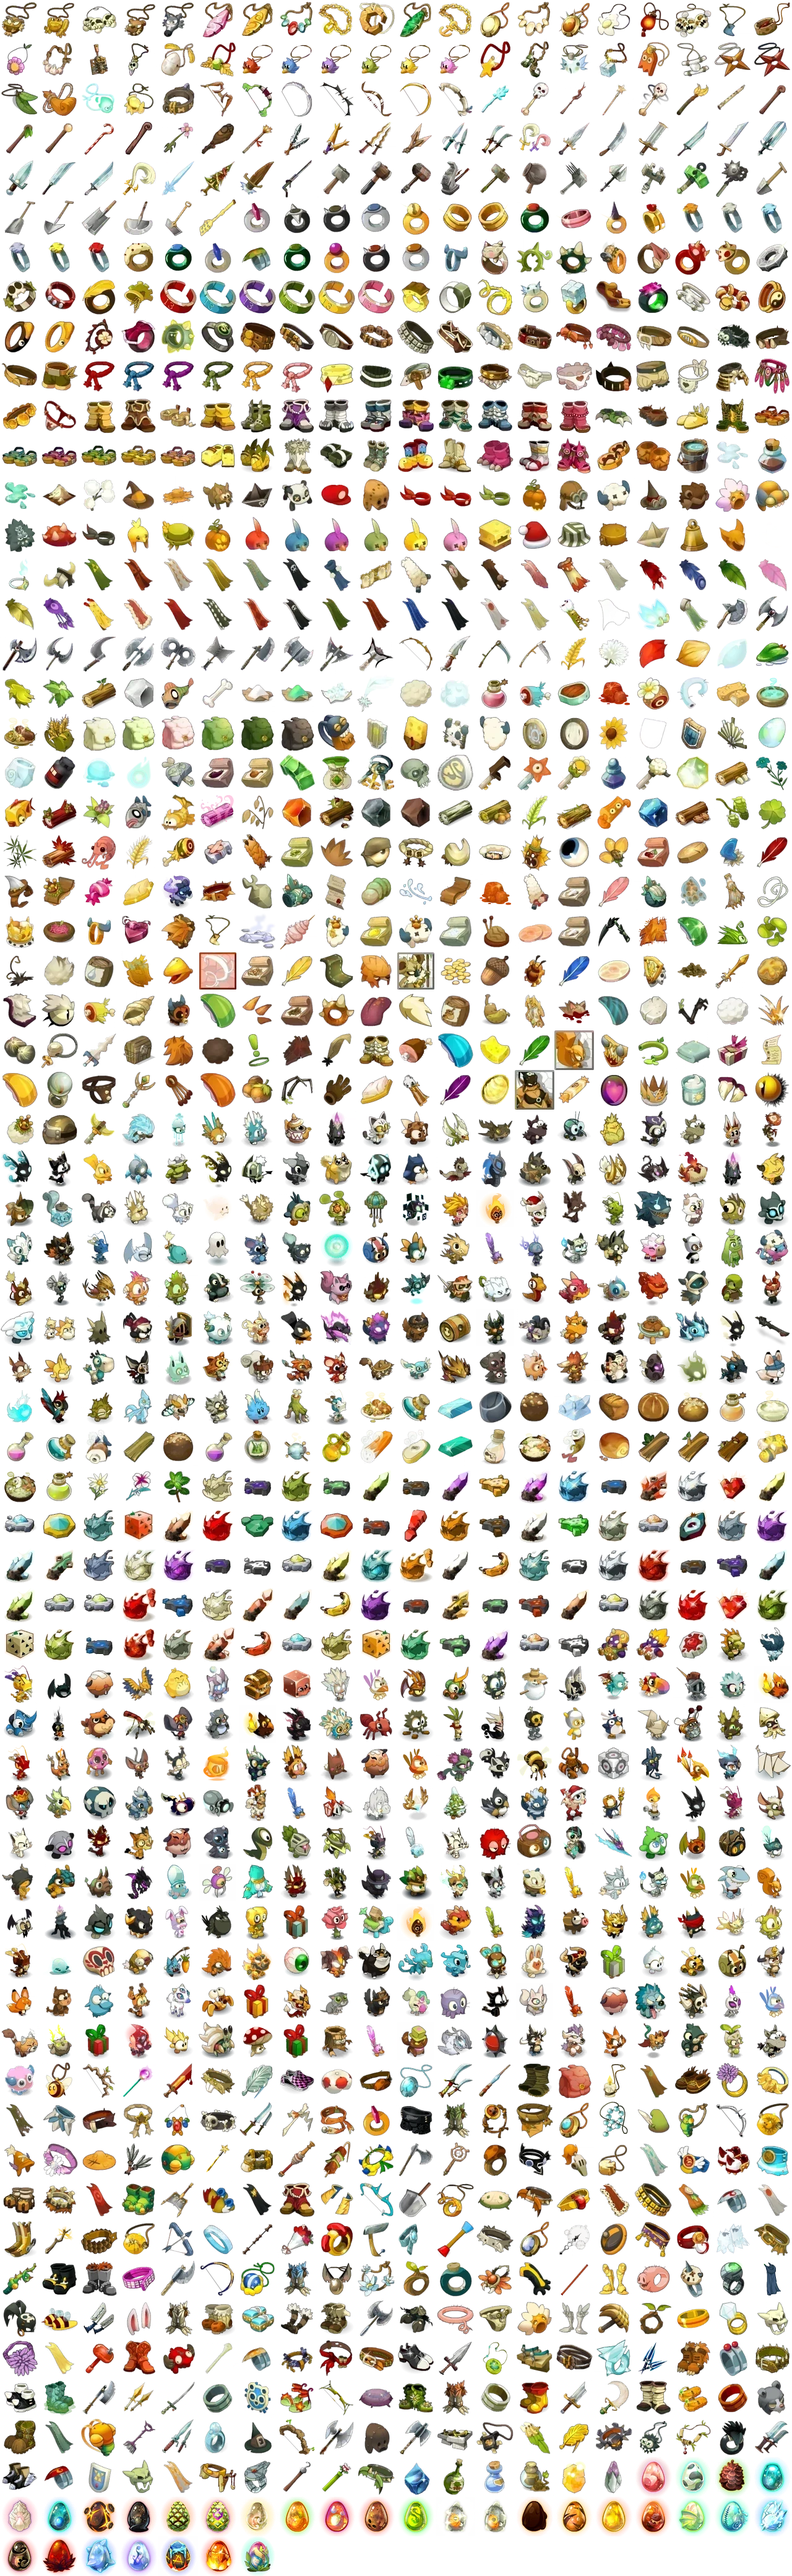
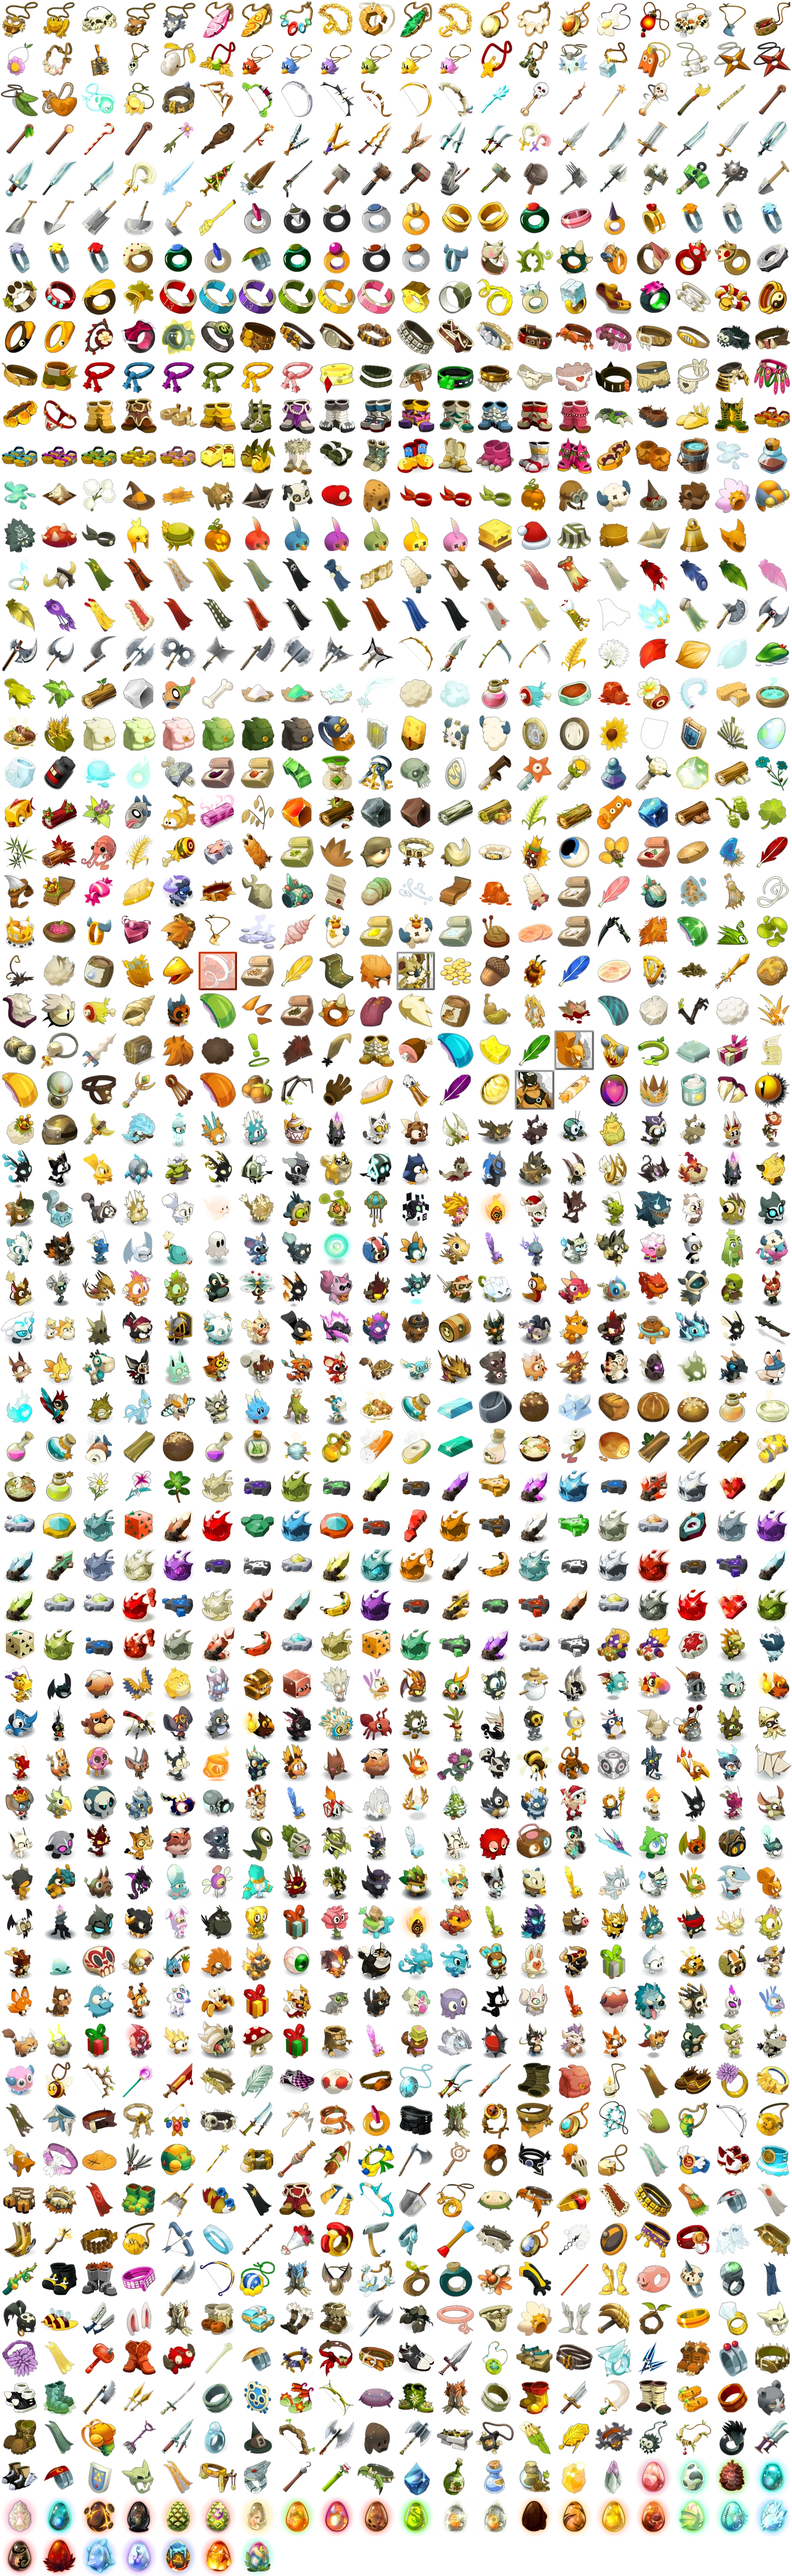
Icônes d'objets en 128 px officielles (paquet 2x) dans les fenêtres
Les fenêtres affichaient les icônes 64 px du paquet item_assets_1x, agrandies
(échelle d'interface, écrans à 125-150 %) et réencodées à chaque ajout.
Nouvelle planche objets-hd.webp (128 px) pour le HTML ; objets.webp (64 px,
Phaser) est maintenant réduite depuis la même source. icones_ajout.py refait
toujours les deux planches depuis le paquet 2x.

Claude-Session: https://claude.ai/code/session_01HSZqX7VPHyBYAxorosXfjm

diff --git a/src/render/icons.ts b/src/render/icons.ts
@@ -1,7 +1,8 @@
 import sheet from '../data/icones_objets.json';
 
-/** Planche unique des icônes d'objets (tools/extraction/items_export.py) : une case de 64 px par iconId. */
-export const ICON_SHEET = { key: 'objets', url: 'ui/objets.webp', cell: sheet.cell };
+/** Planches des icônes d'objets (tools/extraction/icones_ajout.py, paquet item_assets_2x de Dofus 3), mêmes cases :
+ *  objets.webp (64 px) pour Phaser, objets-hd.webp (128 px) pour les fenêtres, nettes à toutes les tailles et échelles d'interface. */
+export const ICON_SHEET = { key: 'objets', url: 'ui/objets.webp', cell: sheet.cell, hd: 'ui/objets-hd.webp' };
 const ICONS = sheet.icons as Record<string, number>;
 
 /** Numéro de la case d'une icône (pour Phaser), -1 si absente. */
@@ -14,4 +15,4 @@ export function iconHtml(icon: number) {
   const x = (n % sheet.cols) / (sheet.cols - 1) * 100, y = Math.floor(n / sheet.cols) / (sheet.rows - 1) * 100;
   return `<i class="ic" style="background-position:${x.toFixed(3)}% ${y.toFixed(3)}%"></i>`;
 }
-export const ICON_CSS = `.ic{display:block;background:url(assets/${ICON_SHEET.url}) no-repeat;background-size:${sheet.cols * 100}% ${sheet.rows * 100}%}`;
+export const ICON_CSS = `.ic{display:block;background:url(assets/${ICON_SHEET.hd}) no-repeat;background-size:${sheet.cols * 100}% ${sheet.rows * 100}%}`;

diff --git a/tools/extraction/icones_ajout.py b/tools/extraction/icones_ajout.py
@@ -1,8 +1,13 @@
-"""Ajoute des icônes officielles d'objets à la planche du jeu (public/assets/ui/objets.webp + src/data/icones_objets.json).
+"""Ajoute des icônes officielles d'objets aux planches du jeu (src/data/icones_objets.json) :
+  - public/assets/ui/objets-hd.webp : cases de 128 px, pour les fenêtres (HTML, nettes même avec l'échelle d'interface ou un écran à 125-150 %) ;
+  - public/assets/ui/objets.webp    : cases de 64 px (la même planche réduite), pour Phaser (icônes au sol, récoltes, PNJ).
 
-Usage : python icones_ajout.py <item_assets_1x.bundle> <iconId> [iconId ...]
-La planche grandit d'une rangée quand elle est pleine (20 icônes de 64 px par rangée). Les icônes déjà présentes sont ignorées.
-Le paquet est dans Dofus_Data/StreamingAssets/Content/Picto/Items (copie dans cache-dofus/astrub/).
+Usage : python icones_ajout.py <item_assets_2x.bundle> <iconId> [iconId ...]
+        python icones_ajout.py <item_assets_2x.bundle>            refait seulement les deux planches (même ordre des cases)
+La planche grandit d'une rangée quand elle est pleine (20 icônes par rangée). Les icônes déjà présentes sont ignorées.
+Le paquet est dans Dofus_Data/StreamingAssets/Content/Picto/Items (copie dans cache-dofus/astrub/item_assets_2x.bundle) ;
+ses icônes font 128 px (celles d'item_assets_1x, 64 px, sont trop petites pour les fenêtres).
+Les planches sont toujours refaites depuis les icônes d'origine (jamais réencodées par-dessus l'ancienne image, qui se dégraderait).
 """
 import sys, os, json, math, warnings
 warnings.filterwarnings('ignore')
@@ -10,22 +15,37 @@ import UnityPy
 from PIL import Image
 UnityPy.config.FALLBACK_UNITY_VERSION = '6000.3.16f1'
 R = os.path.join(os.path.dirname(os.path.abspath(__file__)), '..', '..')
-J, W = os.path.join(R, 'src/data/icones_objets.json'), os.path.join(R, 'public/assets/ui/objets.webp')
-d = json.load(open(J)); C, cols = d['cell'], d['cols']
+J = os.path.join(R, 'src/data/icones_objets.json')
+HD, SD = os.path.join(R, 'public/assets/ui/objets-hd.webp'), os.path.join(R, 'public/assets/ui/objets.webp')
+C, CHD = 64, 128
+d = json.load(open(J)); cols = d['cols']
 voulues = [i for i in sys.argv[2:] if i not in d['icons']]
+cherchees = set(d['icons']) | set(voulues)
 trouvees = {}
 for o in UnityPy.load(sys.argv[1]).objects:
     if o.type.name == 'Texture2D':
         t = o.read()
-        if t.m_Name in voulues: trouvees[t.m_Name] = t.image.convert('RGBA')
+        if t.m_Name in cherchees: trouvees[t.m_Name] = t.image.convert('RGBA')
 for i in voulues:
     if i not in trouvees: print('absente', i)
-old = Image.open(W).convert('RGBA'); n = len(d['icons'])
-rows = max(d['rows'], math.ceil((n + len(trouvees)) / cols))
-sheet = Image.new('RGBA', (cols * C, rows * C)); sheet.paste(old, (0, 0))
+n = len(d['icons'])
+for i in voulues:
+    if i in trouvees: d['icons'][i] = n; n += 1
+rows = max(d['rows'], math.ceil(n / cols))
+
+def case(im, c):
+    im = im.copy(); im.thumbnail((c, c), Image.LANCZOS); return im
+
+hd = Image.new('RGBA', (cols * CHD, rows * CHD))
 for i, im in trouvees.items():
-    im.thumbnail((C, C)); x, y = (n % cols) * C, (n // cols) * C
-    sheet.paste(im, (x + (C - im.width) // 2, y + (C - im.height) // 2)); d['icons'][i] = n; n += 1
+    k = d['icons'].get(i)
+    if k is None: continue
+    im = case(im, CHD); x, y = (k % cols) * CHD, (k // cols) * CHD
+    hd.paste(im, (x + (CHD - im.width) // 2, y + (CHD - im.height) // 2))
+manque = [i for i in d['icons'] if i not in trouvees]
+if manque: print('absentes du paquet (cases vides) :', manque)
 d['rows'] = rows
-sheet.save(W, 'WEBP', quality=90, method=6); json.dump(d, open(J, 'w'))
-print(len(trouvees), 'ajoutées ;', n, 'icônes,', rows, 'rangées')
+hd.save(HD, 'WEBP', quality=90, alpha_quality=100, method=6)
+hd.resize((cols * C, rows * C), Image.LANCZOS).save(SD, 'WEBP', quality=90, method=6)
+json.dump(d, open(J, 'w'))
+print(len(trouvees), 'icônes lues ;', n, 'icônes,', rows, 'rangées')

diff --git a/tools/extraction/items_export.py b/tools/extraction/items_export.py
@@ -1,8 +1,8 @@
 """Exporte les objets officiels utiles au jeu dans src/data/items.json, et range leurs icônes sur une planche.
 
-python items_export.py <donnees> <icones_item_1x> <monsters.json du jeu> <src/data/items.json> <public/assets/ui/objets (sans extension)> [niveau_max]
+python items_export.py <donnees> <icones_item_2x> <monsters.json du jeu> <src/data/items.json> <public/assets/ui/objets (sans extension)> [niveau_max]
   donnees : tables sorties par data_dump.py (items.json, itemsets.json, itemtypes.json, monsters.json de Dofus)
-  icones  : dossier png/item_1x du catalogue (catalogue.py), une icône par iconId
+  icones  : dossier png/item_2x du catalogue (catalogue.py), une icône de 128 px par iconId
 Garde : les équipements jusqu'au niveau max (25 par défaut) avec leurs lignes de caractéristiques (min, max),
 leurs panoplies (bonus par nombre d'objets portés), et les ressources lâchées par les monstres du jeu (choix 24E)."""
 import ast, json, os, re, shutil, sys
@@ -133,22 +133,24 @@ recipes.sort(key=lambda r: r['level'])
 
 json.dump({'equipment': items, 'sets': sets, 'resources': resources, 'drops': drops, 'recipes': recipes, 'metiers': metiers},
           open(out, 'w'), ensure_ascii=False, indent=1)
-# Une seule planche pour toutes les icônes (case de 64 px, ordre des iconId) : <icon_out>.webp + src/data/icones_objets.json
+# Une seule planche pour toutes les icônes (ordre des iconId) : <icon_out>-hd.webp (cases de 128 px, fenêtres) et
+# <icon_out>.webp (la même réduite à 64 px, Phaser) + src/data/icones_objets.json. Ensuite, icones_ajout.py ajoute les icônes une à une.
 # (des centaines de petits fichiers ralentissent le chargement et dépassent les limites de publication)
 from PIL import Image
-C, miss, cells = 64, 0, []
+C, CHD, miss, cells = 64, 128, 0, []
 for i in sorted(used_icons):
     src = os.path.join(icons, f'{i}.png')
     if os.path.exists(src): cells.append((i, src))
     else: miss += 1
 cols = 20; rows = (len(cells) + cols - 1) // cols
-sheet = Image.new('RGBA', (cols * C, rows * C))
+sheet = Image.new('RGBA', (cols * CHD, rows * CHD))
 frames = {}
 for n, (i, src) in enumerate(cells):
-    im = Image.open(src).convert('RGBA'); im.thumbnail((C, C))
-    x, y = (n % cols) * C, (n // cols) * C
-    sheet.paste(im, (x + (C - im.width) // 2, y + (C - im.height) // 2))
+    im = Image.open(src).convert('RGBA'); im.thumbnail((CHD, CHD), Image.LANCZOS)
+    x, y = (n % cols) * CHD, (n // cols) * CHD
+    sheet.paste(im, (x + (CHD - im.width) // 2, y + (CHD - im.height) // 2))
     frames[str(i)] = n
-sheet.save(icon_out + '.webp', 'WEBP', lossless=True, method=6)
+sheet.save(icon_out + '-hd.webp', 'WEBP', quality=90, alpha_quality=100, method=6)
+sheet.resize((cols * C, rows * C), Image.LANCZOS).save(icon_out + '.webp', 'WEBP', quality=90, method=6)
 json.dump({'cell': C, 'cols': cols, 'rows': rows, 'icons': frames}, open(os.path.join(os.path.dirname(out), 'icones_objets.json'), 'w'))
 print(len(items), 'équipements,', len(sets), 'panoplies,', len(resources), 'ressources,', len(cells), 'icônes (', miss, 'manquantes )')

diff --git a/tools/contenu/equipement_ajout.py b/tools/contenu/equipement_ajout.py
@@ -3,7 +3,7 @@
 # Les objets déjà dans le butin officiel des monstres (drops) tombent alors comme équipement (avant : rangés par erreur
 # avec les ressources, ex. Boufcoiffe Royale du Bouftou Royal).
 # Usage : FR=<fr.bin> python tools/extraction/items_export.py <tables> <icônes> src/data/monsters.json /tmp/x/items.json /tmp/x/objets 40
-#         python tools/contenu/equipement_ajout.py /tmp/x/items.json   puis   icones_ajout.py <item_assets_1x.bundle> <iconId…> (affichés)
+#         python tools/contenu/equipement_ajout.py /tmp/x/items.json   puis   icones_ajout.py <item_assets_2x.bundle> <iconId…> (affichés)
 import json, os, sys
 ROOT = os.path.join(os.path.dirname(os.path.abspath(__file__)), '..', '..')
 P = os.path.join(ROOT, 'src/data/items.json')

diff --git a/tools/extraction/LISEZMOI.md b/tools/extraction/LISEZMOI.md
@@ -241,8 +241,9 @@ Les anciennes planches ont été converties par `tools/hebergement/planches_avif
 
 ## Emp et la boutique (0.2b, 6 nov. 2026)
 
-- Icônes d'objets ajoutées à la planche `public/assets/ui/objets.webp` : `python icones_ajout.py <item_assets_1x.bundle> <iconId>...`
-  (le bundle est copié dans `/mnt/project-files/cache-dofus/astrub/item_assets_1x.bundle`).
+- Icônes d'objets ajoutées aux planches `public/assets/ui/objets-hd.webp` (128 px, fenêtres) et `objets.webp` (64 px, Phaser) :
+  `python icones_ajout.py <item_assets_2x.bundle> <iconId>...` (le paquet 2x est copié dans `/mnt/project-files/cache-dofus/astrub/item_assets_2x.bundle` ;
+  le 1x, 64 px, donnait des icônes floues dans les fenêtres). Sans iconId, refait les deux planches.
 - PNJ dont le look a un skin et des couleurs (`{bone|skin|1=couleur}`) : `SKINS=<skins_assets_skin_N.bundle> COULEURS=1=<couleur>`
   devant `monster_planche.py`. Emp : `PNJ=1 SCALE=1.32 SKINS=.../skins_assets_skin_1981.bundle COULEURS=1=15788464 python monster_planche.py 1979 pnj_emp <bones> <sortie>`.
 - Cadenas : icône officielle `icons_assets_1x/lockShadowOutline` dans `public/assets/ui/emp/`.
@@ -468,7 +469,7 @@ Ville vivante (maquette Ville 5F, 8 nov. 2026) :
 - `python3 tools/contenu/dofus.py /mnt/project-files/dofus-passifs <tables dofusdb>` écrit `src/data/dofus.json` : les 31 Dofus officiels
   (stats au jet maximum, passif traduit de la maquette des passifs, source). `jeu: true` = passif codé (`src/sim/dofus.ts`, PASSIFS) :
   Argenté et Cacao en 0.3, les autres avec leur zone.
-- Icônes : `python3 tools/extraction/icones_ajout.py /mnt/project-files/cache-dofus/astrub/item_assets_1x.bundle <iconIds>`.
+- Icônes : `python3 tools/extraction/icones_ajout.py /mnt/project-files/cache-dofus/astrub/item_assets_2x.bundle <iconIds>`.
 - Quêtes « œuf à reconstituer » dans `tools/contenu/quetes.py` (Gawdien du Dofus au Bastion, place dans `bastion.py` PNJ_PLACE).
   Un nouveau Dofus = une quête avec `'recompense': {'dofus': '<id>'}` ; la fenêtre D lit cette clé pour montrer les fragments.
 - Planches des PNJ (bones pris sur le PC) : `PNJ=1 SCALE=1.32 ANIMS=AnimStatique_1 monster_planche.py 321 pnj_gawdien …`,
